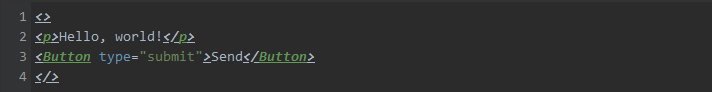
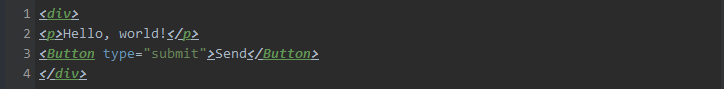
GITBOOK-20: No subject

diff --git a/week-2/jsx.md b/week-2/jsx.md
@@ -56,13 +56,15 @@ React.createElement("p", null, "Hello, world!");
 
 <figure><img src="../.gitbook/assets/image (7).png" alt=""><figcaption></figcaption></figure>
 
-<figure><img src="../.gitbook/assets/image (1).png" alt=""><figcaption></figcaption></figure>
+<figure><img src="../.gitbook/assets/image (1) (2).png" alt=""><figcaption></figcaption></figure>
 
 ## \<React.Fragment> 묶음
 
 <figure><img src="../.gitbook/assets/image (4).png" alt=""><figcaption></figcaption></figure>
 
-<figure><img src="../.gitbook/assets/image.png" alt=""><figcaption><p>Fragment를&#x3C;> &#x3C;/> 이렇게도 표현 가능</p></figcaption></figure>
+<figure><img src="../.gitbook/assets/image (1).png" alt=""><figcaption><p>Fragment를&#x3C;> &#x3C;/> 이렇게도 표현 가능</p></figcaption></figure>
+
+<figure><img src="../.gitbook/assets/image.png" alt=""><figcaption><p>보통의 경우 div로 감싸줌</p></figcaption></figure>
 
 
 
